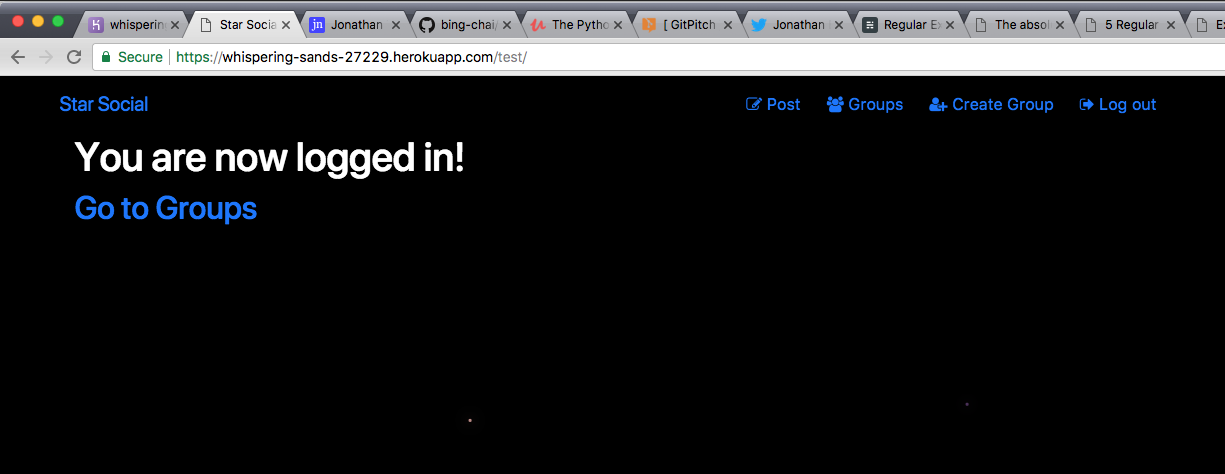
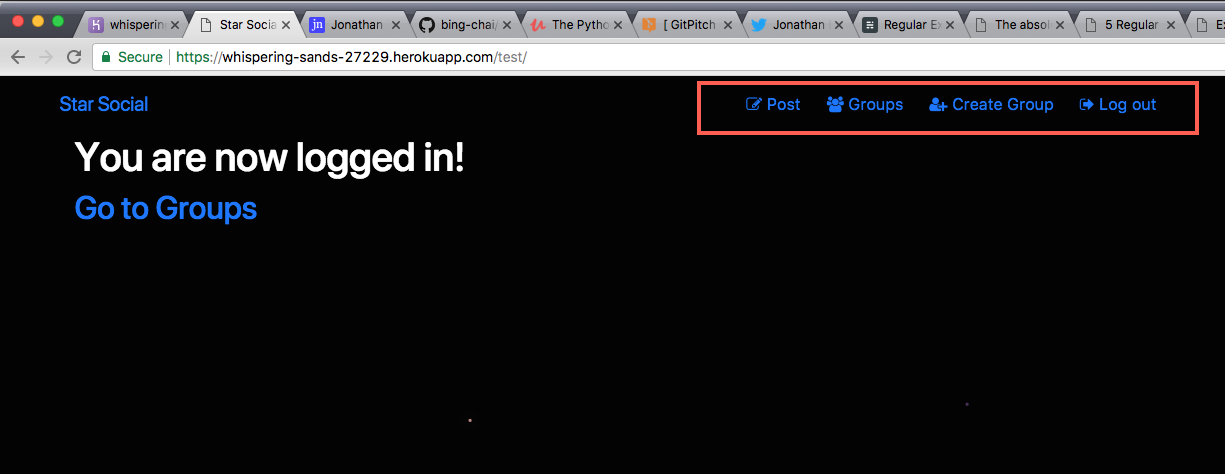
edits

Changed region(s): [[0.5584, 0.1477, 0.9927, 0.2954]]

diff --git a/PITCHME.md b/PITCHME.md
@@ -88,27 +88,45 @@ Migrating sqlite to postgresql
 +++
 @title[Deployment on Heroku]
 ![HerokuDashboard](gitpitch_assets/heroku_overview.png)
-It's alive! :shipit:
+It's alive!
 ---
 @title[Other challenges]
+# Other challenges
+## Last night...
 ![Heroku Down](gitpitch_assets/heroku_down.PNG)
 +++
 @title[Internet down]
+This morning...
 ![Internet issues](gitpitch_assets/optus_down.PNG)
----
-```python
-Code here
-```
-@[1](Highlight line 1)
+
 ---
 @title[Adding new features]
 ![addingglyphicons](gitpitch_assets/with_glyphicons.PNG)
 Added glyphicons using fontawesome (previous glyphicons font support deprecated in bootstrap v4)
++++
+@title[The Code]
+```python
+<a class="navbar-brand mynav" href="{% url 'home' %}">Star Social</a>
+<ul class="nav justify-content-end">
+  {% if user.is_authenticated %}
+        <li><a href="{% url 'posts:create' %}" class="btn btn-simple"><i class="fa fa-pencil-square-o"></i> Post</a></li>
+        <li><a href="{% url 'groups:all' %}" class="btn btn-simple"><i class="fa fa-users"></i> Groups</a></li>
+        <li><a href="{% url 'groups:create' %}" class="btn btn-simple"><i class="fa fa-user-plus"></i> Create Group</a></li>
+        <li><a href="{% url 'accounts:logout' %}" class="btn btn-simple"><i class="fa fa-sign-out"></i> Log out</a></li>
+  {% else %}
+        <!-- <li><a href="{% url 'groups:all' %}" class="btn btn-simple">Groups</a></li> -->
+        <li><a href="{% url 'accounts:signup' %}" class="btn btn-simple"><i class="fa fa-user-circle-o"></i> Sign up</a></li>
+        <li><a href="{% url 'accounts:login' %}" class="btn btn-simple"><i class="fa fa-sign-in"></i> Log in</a></li>
+  {% endif %}
+</ul>
+```
+Glyphicons
 ---
 # Features?
-- [x]:white_check_mark: glyphicons
-- [ ]:white_medium_square: clean up templates
-- [ ]:white_medium_square: user profile pictures
+- [x] glyphicons
+- [ ] clean up post and group templates
+- [ ] user profile pictures
+- [ ] user admin features: change password, etc
 ---
 
 The journey is just beginning...
